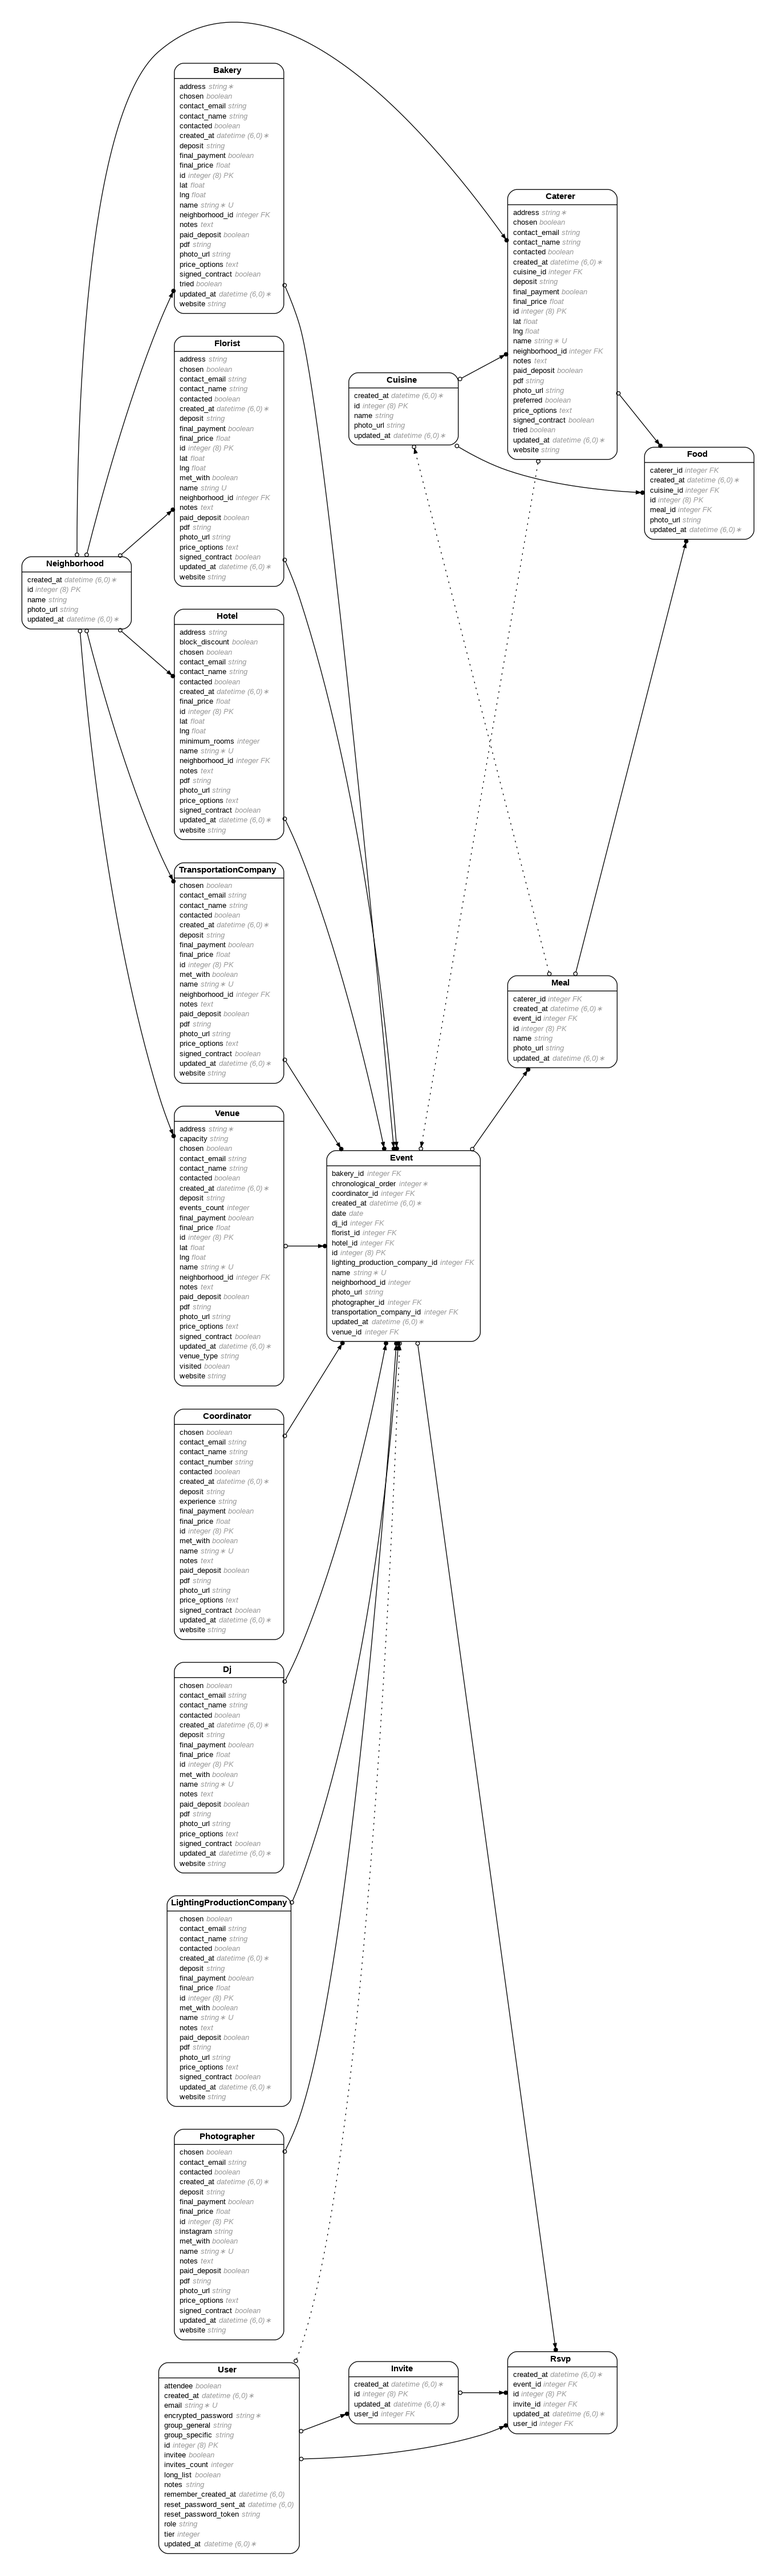
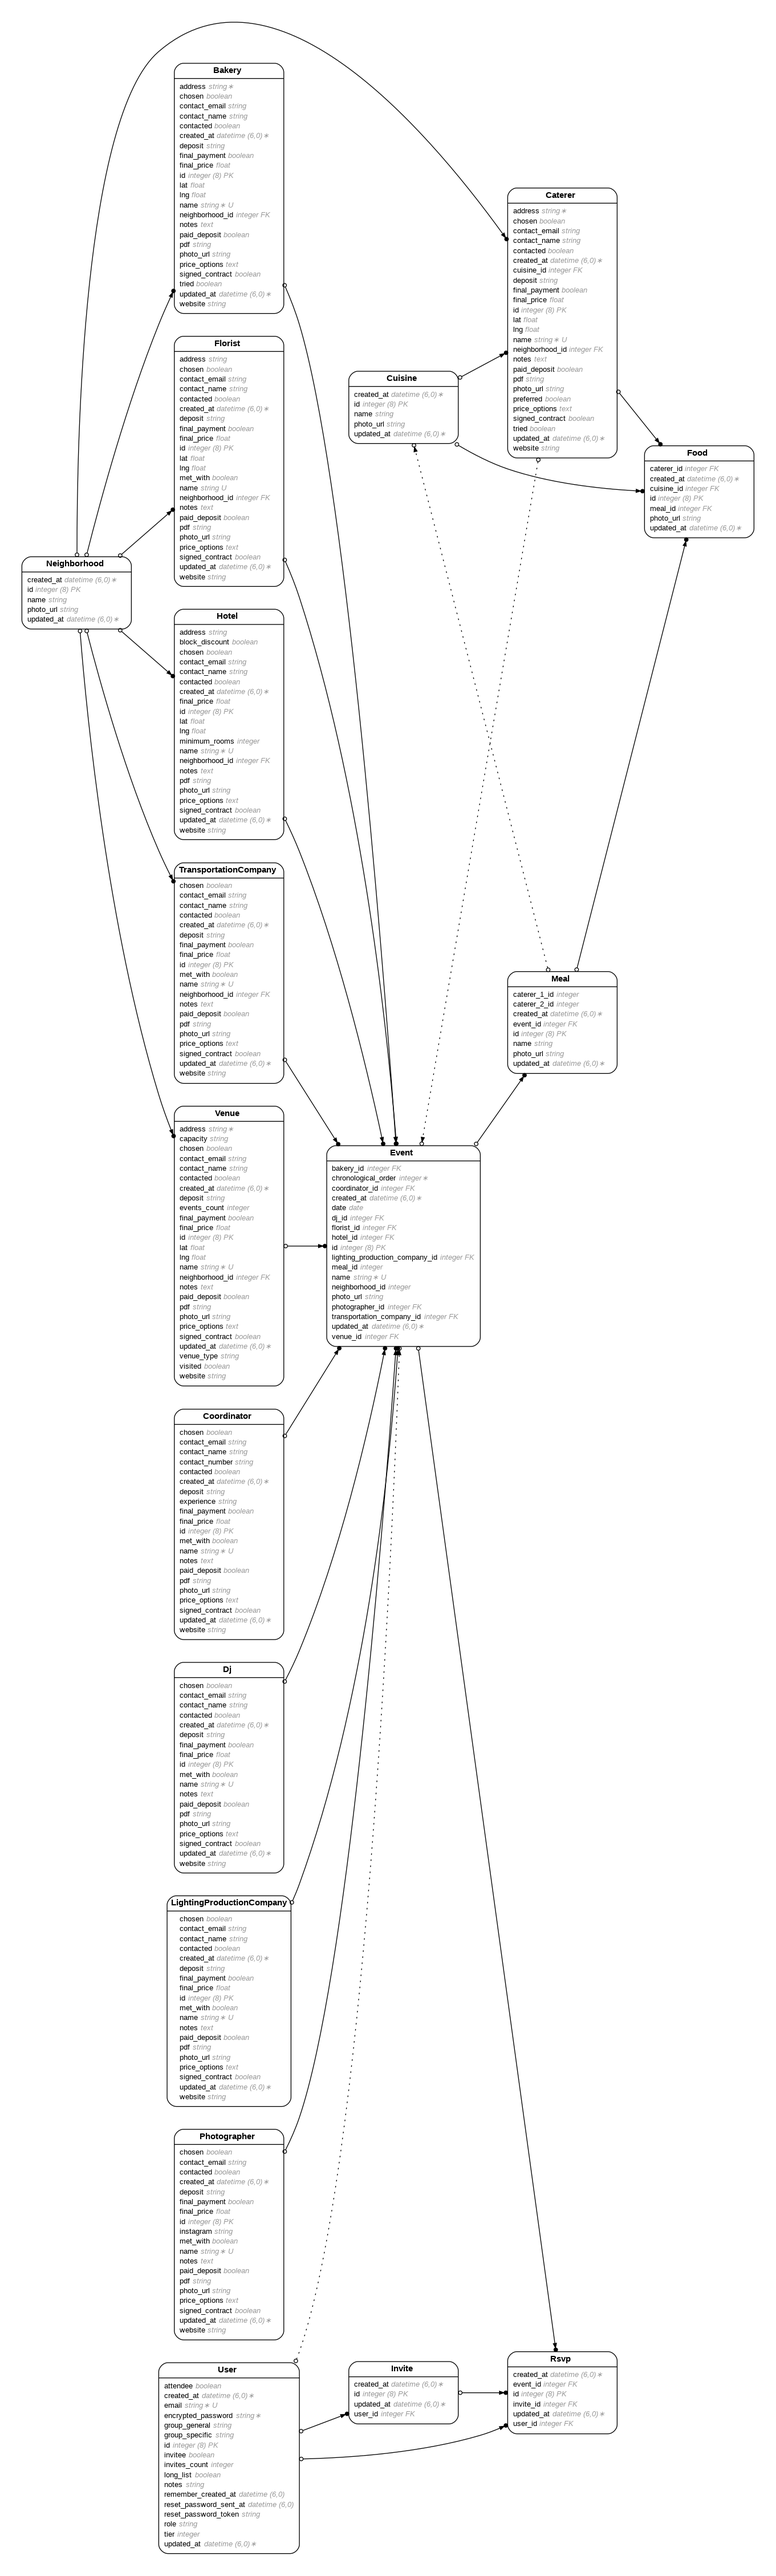
Updates to meals to include a second caterer

diff --git a/app/controllers/meals_controller.rb b/app/controllers/meals_controller.rb
@@ -22,9 +22,11 @@ class MealsController < ApplicationController
 
     @list_of_caterers = Caterer.all.order({ :name => :asc })
 
-    @the_meal_caterer = Caterer.where({ :id => @the_meal.caterer_id }).at(0)
+    @the_meal_caterer_1 = Caterer.where({ :id => @the_meal.caterer_1_id }).at(0)
 
-    @list_of_events = Caterer.all.order({ :name => :asc })
+    @the_meal_caterer_2 = Caterer.where({ :id => @the_meal.caterer_2_id }).at(0)
+
+    @list_of_events = Event.all.order({ :name => :asc })
 
     @the_meal_event = Event.where({ :id => @the_meal.event_id }).at(0)
 
@@ -35,8 +37,11 @@ class MealsController < ApplicationController
     the_meal = Meal.new
     the_meal.name = params.fetch("query_name")
 
-    caterer_name = params.fetch("query_caterer_name")
-    the_meal.caterer_id = Caterer.where({ :name => caterer_name }).at(0).id
+    caterer_1_name = params.fetch("query_caterer_1_name")
+    the_meal.caterer_1_id = Caterer.where({ :name => caterer_1_name }).at(0).id
+
+    caterer_2_name = params.fetch("query_caterer_2_name")
+    the_meal.caterer_2_id = Caterer.where({ :name => caterer_2_name }).at(0).id
 
     event_name = params.fetch("query_event_name")
     the_meal.event_id = Event.where({ :name => event_name }).at(0).id
@@ -56,8 +61,10 @@ class MealsController < ApplicationController
     the_meal = Meal.where({ :id => the_id }).at(0)
     the_meal.name = params.fetch("query_name")
 
-    caterer_name = params.fetch("query_caterer_name")
-    the_meal.caterer_id = Caterer.where({ :name => caterer_name }).at(0).id
+    caterer_1_name = params.fetch("query_caterer_1_name")
+    caterer_2_name = params.fetch("query_caterer_2_name")
+    the_meal.caterer_1_id = Caterer.where({ :name => caterer_1_name }).at(0).id
+    the_meal.caterer_2_id = Caterer.where({ :name => caterer_2_name }).at(0).id
 
     event_name = params.fetch("query_event_name")
     the_meal.event_id = Event.where({ :name => event_name }).at(0).id

diff --git a/app/controllers/events_controller.rb b/app/controllers/events_controller.rb
@@ -15,6 +15,7 @@ class EventsController < ApplicationController
     @list_of_photographers = Photographer.all.order({ :name => :asc })
     @list_of_transportation_companies = TransportationCompany.all.order({ :name => :asc })
     @list_of_venues = Venue.all.order({ :name => :asc })
+    @list_of_meals = Meal.all.order({ :name => :asc })
     @list_of_neighborhoods = Neighborhood.all.order({ :name => :asc })
 
     render({ :template => "events/index" })
@@ -36,6 +37,7 @@ class EventsController < ApplicationController
     @list_of_photographers = Photographer.all.order({ :name => :asc })
     @list_of_transportation_companies = TransportationCompany.all.order({ :name => :asc })
     @list_of_venues = Venue.all.order({ :name => :asc })
+    @list_of_meals = Meal.all.order({ :name => :asc })
     @list_of_neighborhoods = Neighborhood.all.order({ :name => :asc })
 
     @the_event_bakery = Bakery.where({ :id => @the_event.bakery_id }).at(0)

diff --git a/db/schema.rb b/db/schema.rb
@@ -10,7 +10,7 @@
 #
 # It's strongly recommended that you check this file into your version control system.
 
-ActiveRecord::Schema[7.1].define(version: 2025_02_01_015900) do
+ActiveRecord::Schema[7.1].define(version: 2025_02_19_195450) do
   # These are extensions that must be enabled in order to support this database
   enable_extension "plpgsql"
 
@@ -134,6 +134,7 @@ ActiveRecord::Schema[7.1].define(version: 2025_02_01_015900) do
     t.integer "neighborhood_id"
     t.string "photo_url"
     t.date "date"
+    t.integer "meal_id"
   end
 
   create_table "florists", force: :cascade do |t|
@@ -226,7 +227,8 @@ ActiveRecord::Schema[7.1].define(version: 2025_02_01_015900) do
     t.datetime "updated_at", null: false
     t.string "name"
     t.string "photo_url"
-    t.integer "caterer_id"
+    t.integer "caterer_1_id"
+    t.integer "caterer_2_id"
   end
 
   create_table "neighborhoods", force: :cascade do |t|

diff --git a/app/models/meal.rb b/app/models/meal.rb
@@ -2,13 +2,14 @@
 #
 # Table name: meals
 #
-#  id         :bigint           not null, primary key
-#  name       :string
-#  photo_url  :string
-#  created_at :datetime         not null
-#  updated_at :datetime         not null
-#  caterer_id :integer
-#  event_id   :integer
+#  id           :bigint           not null, primary key
+#  name         :string
+#  photo_url    :string
+#  created_at   :datetime         not null
+#  updated_at   :datetime         not null
+#  caterer_1_id :integer
+#  caterer_2_id :integer
+#  event_id     :integer
 #
 class Meal < ApplicationRecord
   belongs_to :event, required: true, class_name: "Event", foreign_key: "event_id"

diff --git a/app/models/event.rb b/app/models/event.rb
@@ -15,6 +15,7 @@
 #  florist_id                     :integer
 #  hotel_id                       :integer
 #  lighting_production_company_id :integer
+#  meal_id                        :integer
 #  neighborhood_id                :integer
 #  photographer_id                :integer
 #  transportation_company_id      :integer

diff --git a/db/migrate/20250219195450_rename_caterer_id_in_meals.rb b/db/migrate/20250219195450_rename_caterer_id_in_meals.rb
@@ -1,0 +1,5 @@
+class RenameCatererIdInMeals < ActiveRecord::Migration[7.1]
+  def change
+    rename_column :meals, :caterer_id, :caterer_1_id
+  end
+end

diff --git a/db/migrate/20250219195231_add_caterer2_id_to_meals.rb b/db/migrate/20250219195231_add_caterer2_id_to_meals.rb
@@ -1,0 +1,5 @@
+class AddCaterer2IdToMeals < ActiveRecord::Migration[7.1]
+  def change
+    add_column :meals, :caterer_2_id, :integer
+  end
+end

diff --git a/db/migrate/20250219194055_add_meal_to_events.rb b/db/migrate/20250219194055_add_meal_to_events.rb
@@ -1,0 +1,5 @@
+class AddMealToEvents < ActiveRecord::Migration[7.1]
+  def change
+    add_column :events, :meal_id, :integer
+  end
+end
